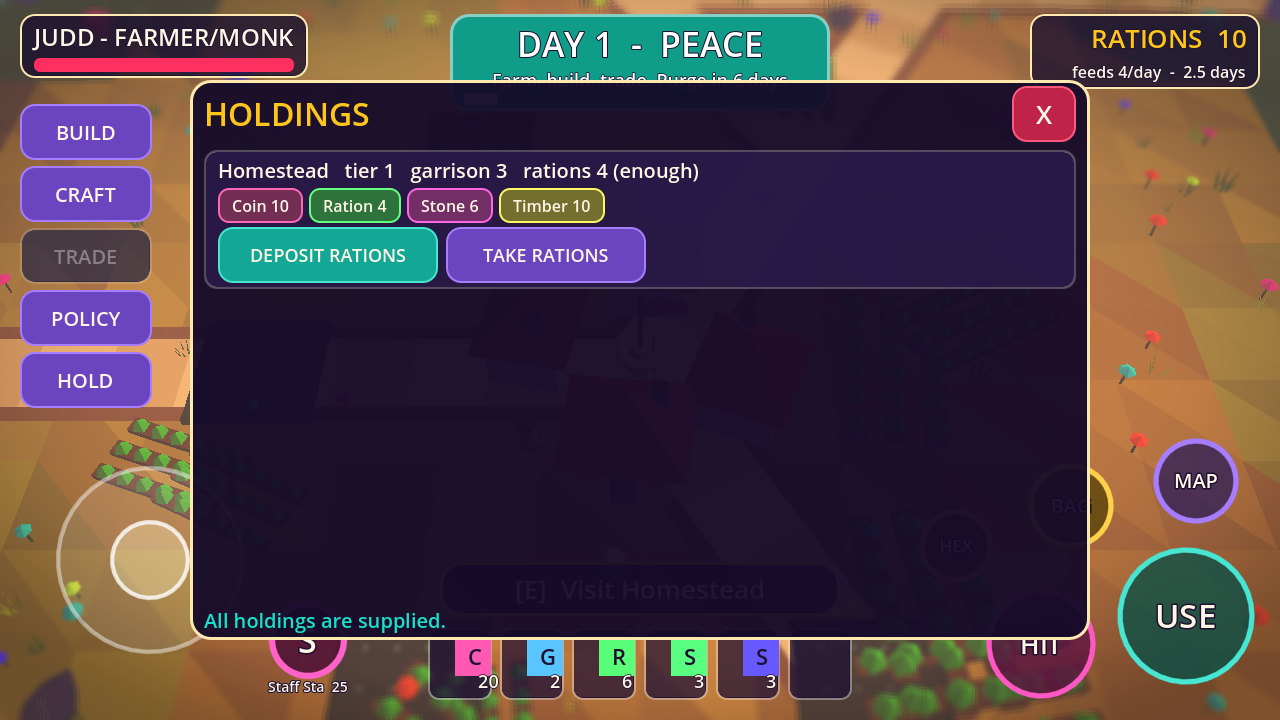
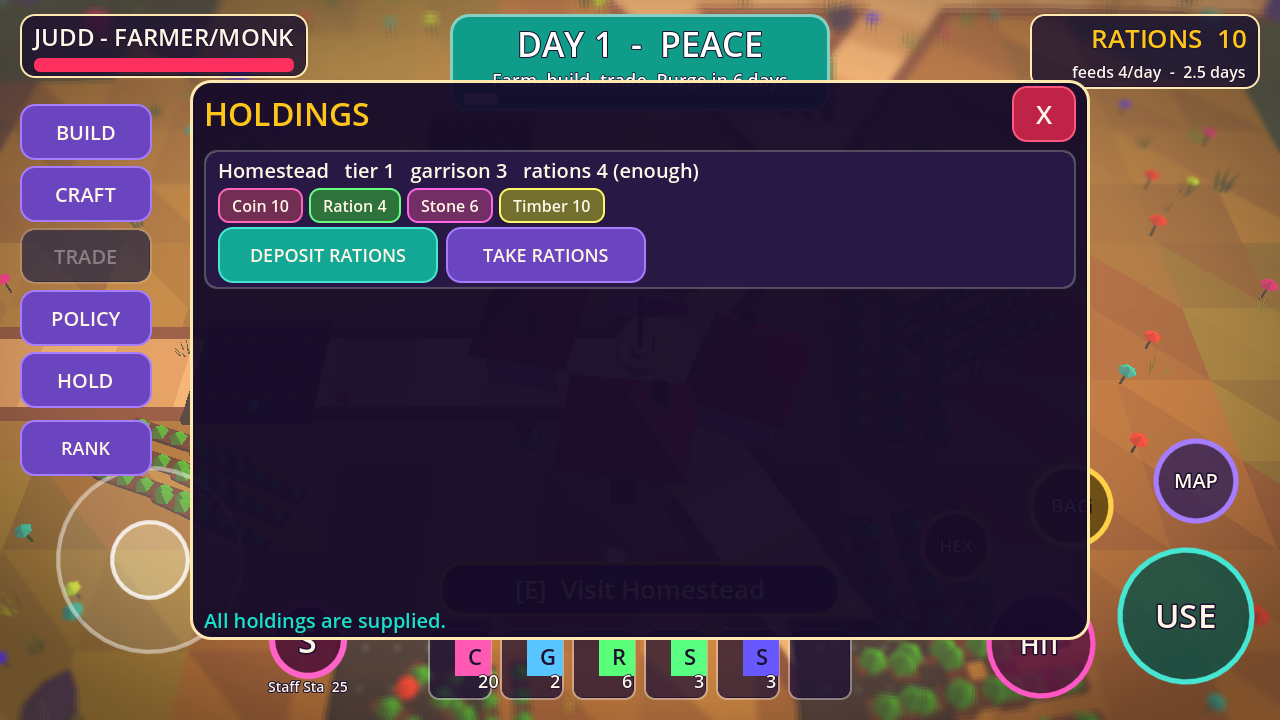
Pass 2 integrated: wire Standing/Skills panels, rival-conquest end, Total Conquest text, reports
Claude-Session: https://claude.ai/code/session_016RWPuPUYHXU7mCfFED3ojH

Changed region(s): [[0.0, 0.5806, 0.125, 0.6722]]

diff --git a/docs/TEST_REPORT.md b/docs/TEST_REPORT.md
@@ -30,3 +30,8 @@ Known gaps: player-to-rules movement is hex-step sync (rules actor lags visual p
 Journey (xvfb, software GL): plant x4 via session commands, build/holdings panels, class ability, Warning and Purge phases; no script errors. Captures in art/captures/integrated/.
 Not verified: human play feel, touch on a real device, Android, real online players, hosting. Stream reports for pass 1 never arrived; contents verified from commits/tests only.
 Still open: Dominion/Crowned wins still in rules (replace with Total Conquest), Standing/rank and skill trees unbuilt, AI factions class-agnostic, no match convergence (see docs/SIM_REPORT_0.md).
+
+## Pass 2 integrated run (lead)
+42 suites, 378 tests, 19086 checks, 0 failures. Journey (software GL) captured Standing and Skill panels with no script errors.
+Sim (agent-run, 24 seeds x 336 days): territory still changes after week 24 in 24/24; non-raider personas earn deeds; Total Conquest 0/24; Vex eliminated in 100% of matches (class balance far outside band); several abilities never used by bots. See docs/SIM_REPORT_pass2.md.
+Missing: meshes for shrine/greenhouse/forge (fallback hut), HUD standing strip (toast at WARNING only), scout/escort/truce/ransom/sabotage buttons.

diff --git a/CHANGELOG.md b/CHANGELOG.md
@@ -13,3 +13,9 @@
 - Menu, 14-class select, end screens; distinct class/enemy/NPC models; build/craft/trade/policy/holdings panels; combat FX, ability bar, danger indicator; roads, building/crop models.
 - Sessions (local/online), autosave/continue + permadeath tombstone, cosmetic meta store; fog-filtered snapshots, token expiry, Purge disconnect lock; multi-process shared-world test.
 - Grand Simulation #0 harness and report; docs for incentives, skill trees, Total Conquest.
+
+## v0.3.0 — Pass 2
+- Total Conquest is the only win (Dominion/Crowned removed); Prosperity score; any leader's death eliminates its faction; rival-conquest game-over.
+- Standing/ranks (0-5, no combat stat), deeds with decay, Mark + bounty, Purge Levy, upkeep/stability, thin crown; Purge-only purgebloom/ashmarrow; escalating waves; scout/escort/truce/ransom/sabotage commands.
+- 14 skill trees (15 nodes each) fed only by Purge deeds; Standing and Skills panels wired (RANK button, P/K keys).
+- Class-aware AI leaders; passive personas earn deeds. See docs/SIM_REPORT_pass2.md.
